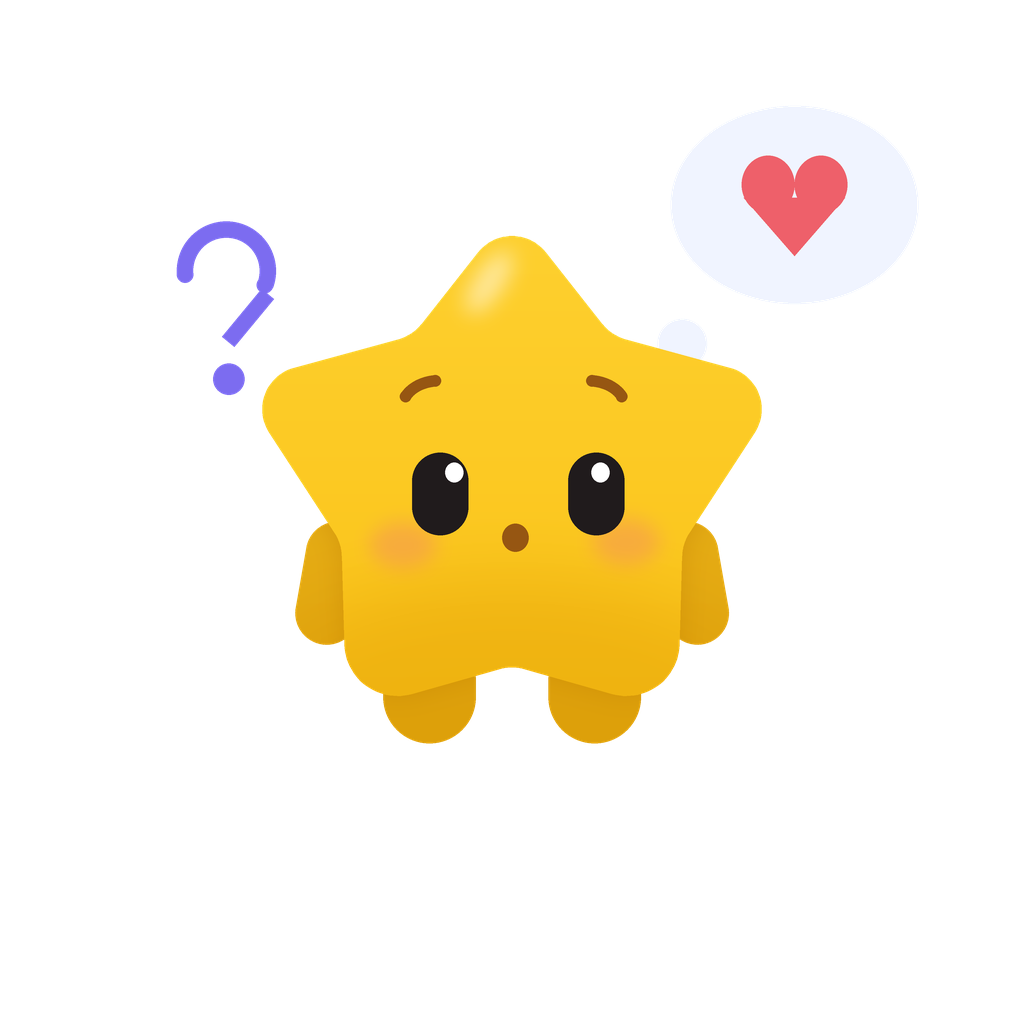
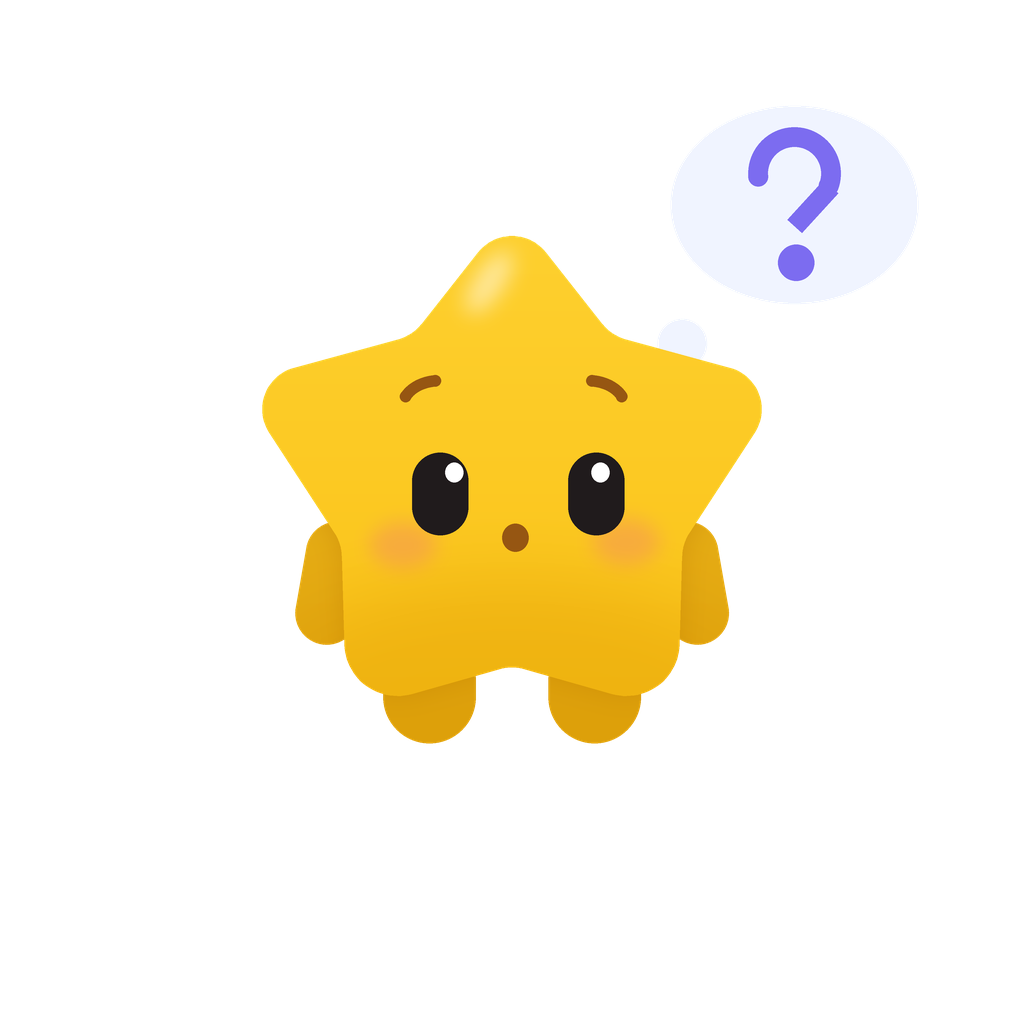
Put a question mark in the thought bubble instead of a heart
ob1 is the "what about me?" onboarding screen, so the bubble now holds a
question mark; the separate question mark beside the head is gone since it
duplicated the same idea.

Claude-Session: https://claude.ai/code/session_015M4W5mwAC7ThVprora4HqH

Changed region(s): [[0.7188, 0.125, 0.8438, 0.2812], [0.1562, 0.2188, 0.2812, 0.4062]]

diff --git a/scenes.py b/scenes.py
@@ -187,7 +187,10 @@ def think_bubble(img):
     d.ellipse(sbox([812, 128, 1112, 368]), fill=CLOUD + (255,))
     d.ellipse(sbox([796, 386, 856, 446]), fill=CLOUD + (255,))
     d.ellipse(sbox([764, 462, 800, 498]), fill=CLOUD + (255,))
-    heart(d, 962, 246, 128, RED)
+    # в пузыре — знак вопроса: персонаж думает «а как у меня с этим?»
+    cs.stroke_arc(d, [906, 154, 1018, 266], 175, 20, ACCENT, 24)
+    d.line(sbox([1006, 226, 962, 274]), fill=ACCENT + (255,), width=int(s(24)))
+    d.ellipse(sbox([942, 296, 986, 340]), fill=ACCENT + (255,))
     img.alpha_composite(lay)
 
 
@@ -407,7 +410,7 @@ SCENES: dict[str, dict] = {
 
     # онбординг
     "ob1": dict(pose="idle", face=F(eyes="wide", brows="raised", mouth="small"),
-                title="Онбординг 1: задумчивая", back=[think_bubble, small_question]),
+                title="Онбординг 1: задумчивая", back=[think_bubble]),
     "ob2": dict(pose="idle", face=F(eyes="wide", brows="raised", mouth="small"),
                 title="Онбординг 2: вопрос", back=[big_question]),
     "ob3": dict(pose="idle", face=F(eyes="closed", brows="none", mouth="smile"),
